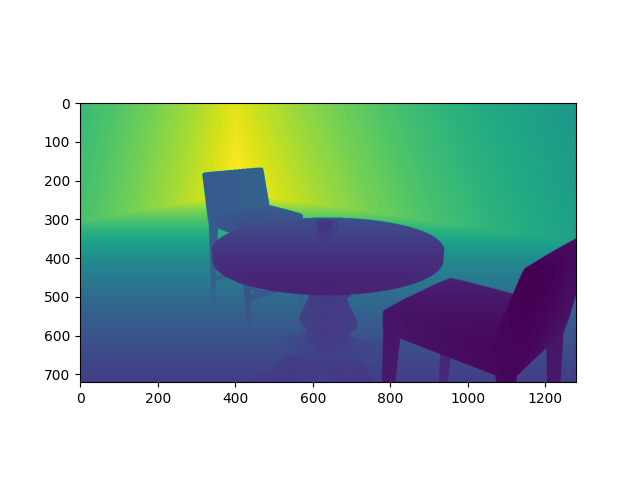
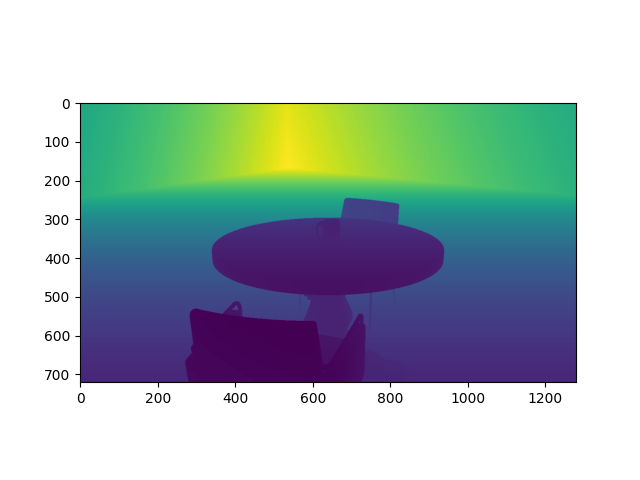
non graspable table

diff --git a/src/scene.py b/src/scene.py
@@ -5,7 +5,7 @@ from tdw.tdw_utils import TDWUtils
 from tdw.add_ons.oculus_touch import OculusTouch
 from tdw.vr_data.oculus_touch_button import OculusTouchButton
 
-# import matplotlib.pyplot as plt
+import matplotlib.pyplot as plt
 from tdw.librarian import ModelLibrarian, ModelRecord
 from tdw.output_data import Bounds, OutputData, CameraMatrices
 from tdw.add_ons.third_person_camera import ThirdPersonCamera
@@ -42,14 +42,13 @@ class OculusTouchTestScene(Controller):
             function=self.end_trial,
         )
         self.add_ons.extend([self.vr])
-        path = EXAMPLE_CONTROLLER_OUTPUT_PATH.joinpath("image_capture")
-        print(f"Images will be save to: {path.resolve()}")
-        capture = ImageCapture(path=path, avatar_ids=["vr"], pass_masks=["_id"])
-        self.add_ons.append(capture)
+        self.path = EXAMPLE_CONTROLLER_OUTPUT_PATH.joinpath("image_capture")
+        self.capture = ImageCapture(path=self.path, avatar_ids=["vr"], pass_masks=["_img"])
+        self.add_ons.append(self.capture)
         self.communicate(
             [
                 TDWUtils.create_empty_room(12, 12),
-                {"$type": "set_target_framerate", "framerate": 30},
+                {"$type": "set_target_framerate", "framerate": 60},
             ]
         )
 
@@ -121,7 +120,7 @@ class OculusTouchTestScene(Controller):
                 {
                     "$type": "set_kinematic_state",
                     "id": table_id,
-                    "is_kinematic": False,
+                    "is_kinematic": True,  # kinematic object is non-graspable
                     "use_gravity": True,
                 },
                 {"$type": "set_mass", "mass": 50, "id": table_id},
@@ -189,6 +188,17 @@ class OculusTouchTestScene(Controller):
             )
 
         self.communicate(commands)
+
+        images = self.capture.images["vr"]
+        for i in range(images.get_num_passes()):
+            if images.get_pass_mask(i) == "_depth":
+                # Get the depth values.
+                depth_values = TDWUtils.get_depth_values(images.get_image(i), depth_pass="_depth", width=images.get_width(), height=images.get_height())
+                path = self.path.joinpath("depth")
+                num = len([name for name in os.listdir(path) if os.path.isfile(os.path.join(path, name))])
+                plt.imshow(depth_values)
+                plt.savefig("depth.png")
+                plt.show()
 
         # Wait until the trial is done.
         while not self.trial_done and not self.simulation_done:
